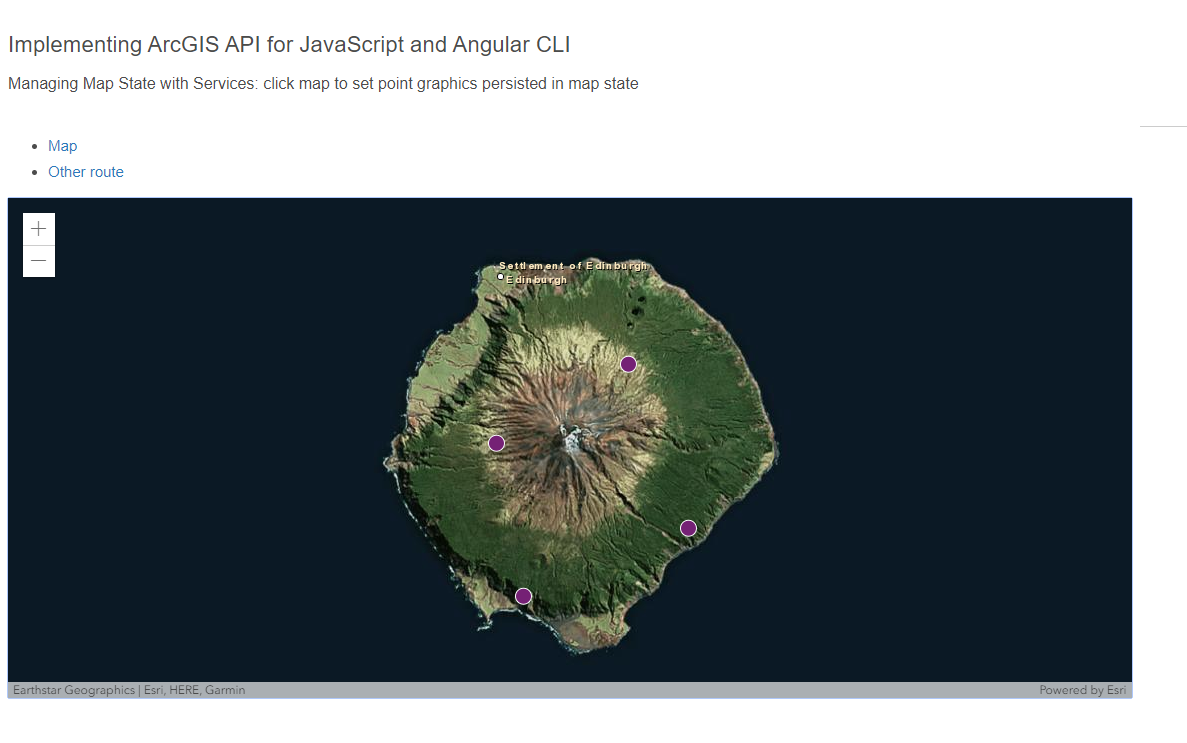
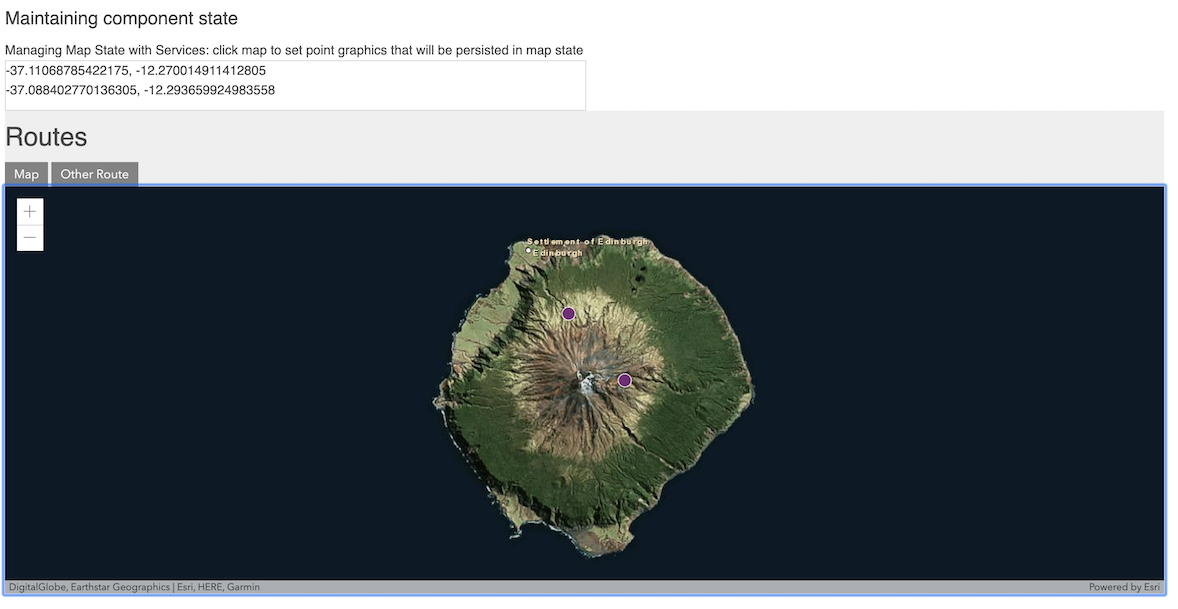
Update slides for ngrx

Changed region(s): [[0.0, 0.1872, 1.0, 0.9984], [0.0, 0.0, 0.5501, 0.156]]

diff --git a/docs/index.html b/docs/index.html
@@ -315,23 +315,43 @@
 
 			<section data-markdown data-background="img/2020-plain-bg.png">
 				<textarea data-template>
-					## [Simple map state](https://github.com/andygup/angular-plus-arcgis-javascript-ds2020/sample_apps/simple-map-state)
+					## Angular State Management with NgRx
 
-					- Need to maintain state as we change routes
-					- Can use a service to maintain the state
+					* Application state
+					* Component state
+					* Shared state
+					* Router state
+
+					## Oh so many choices...!
+
+					* RxJS
+					* RxJS + Redux
+					* NgRx
+					* NGXS
+					* angular-redux
+					* ?
 				</textarea>
 			</section>
+
 			<section data-markdown data-background="img/2020-plain-bg.png">
 				<textarea data-template>
+					## [Simple map state with RxJS](https://github.com/andygup/angular-plus-arcgis-javascript-ds2020/sample_apps/simple-map-state)
+
+					- Need to maintain state as we change routes
+					- Can use a service and RxJS to maintain the state
+
 					![app screenshot](img/app_screenshot_2.png)
 				</textarea>
 			</section>
 
 			<section data-markdown data-background="img/2020-plain-bg.png">
 				<textarea data-template>
-					## ngrx and state management
-					@TODO ADD
-				</textarea>
+								## [NgRx Data Store](https://github.com/andygup/angular-plus-arcgis-javascript-ds2020/tree/master/sample_apps/data-store)
+			
+								- Scalable approach to maintaining application state
+
+								![app screenshot](img/app_screenshot_3.png)
+					</textarea>
 			</section>
 
 			<section data-markdown data-background="img/2020-plain-bg.png">

diff --git a/sample_apps/data-store/src/index.html b/sample_apps/data-store/src/index.html
@@ -2,7 +2,7 @@
 <html lang="en">
 <head>
   <meta charset="utf-8">
-  <title>8-simple-map-state</title>
+  <title>NgRx</title>
   <base href="/">
 
   <meta name="viewport" content="width=device-width, initial-scale=1">
